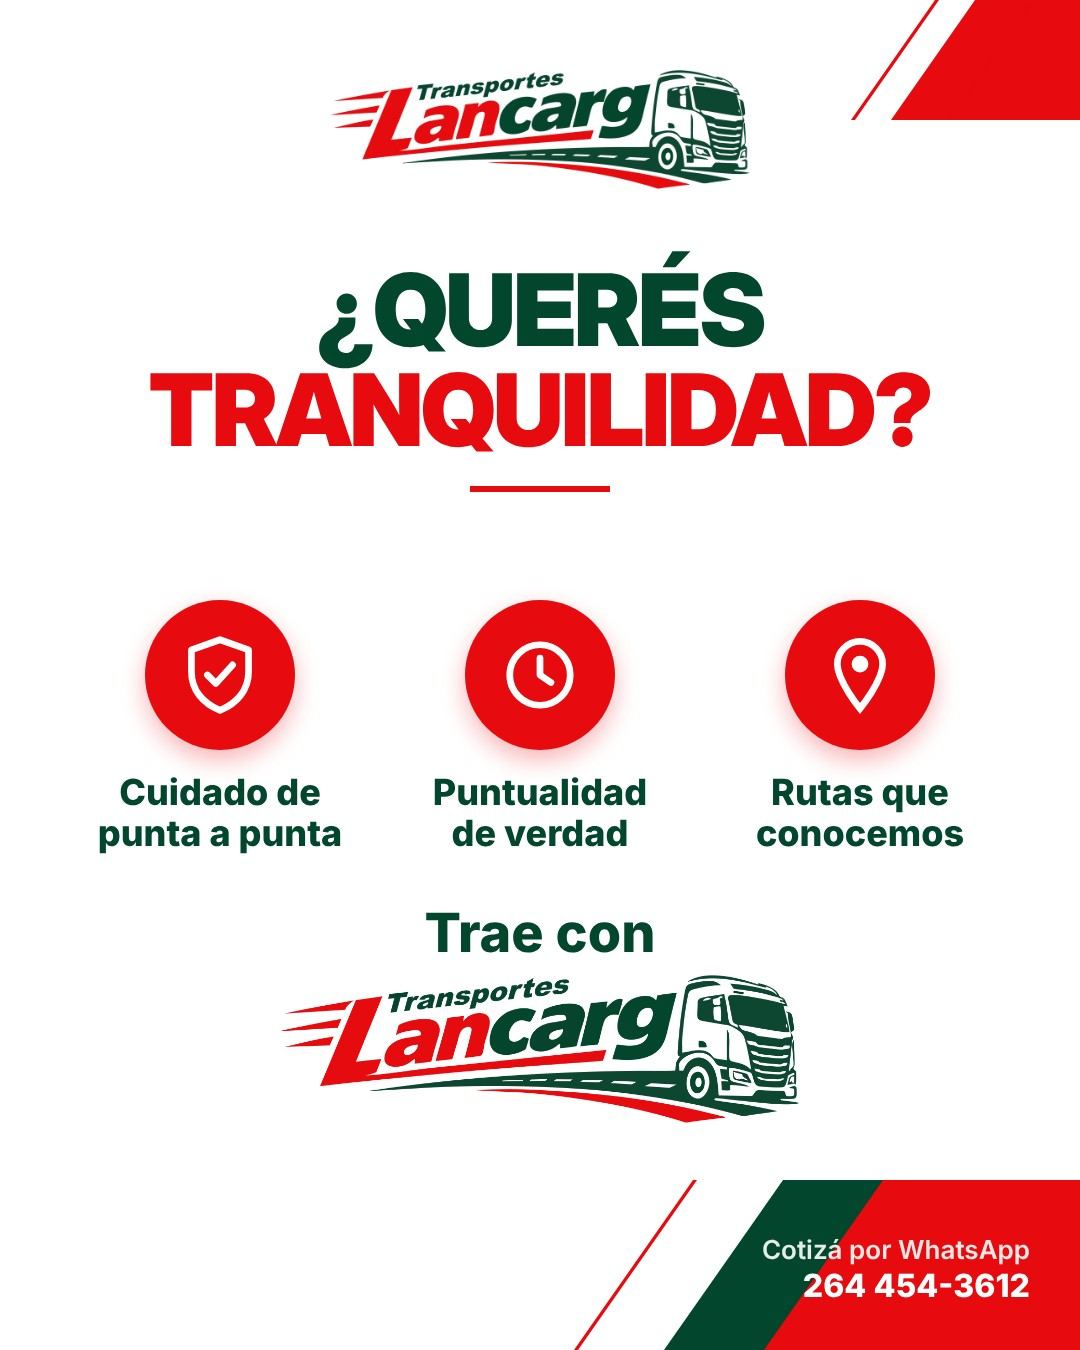
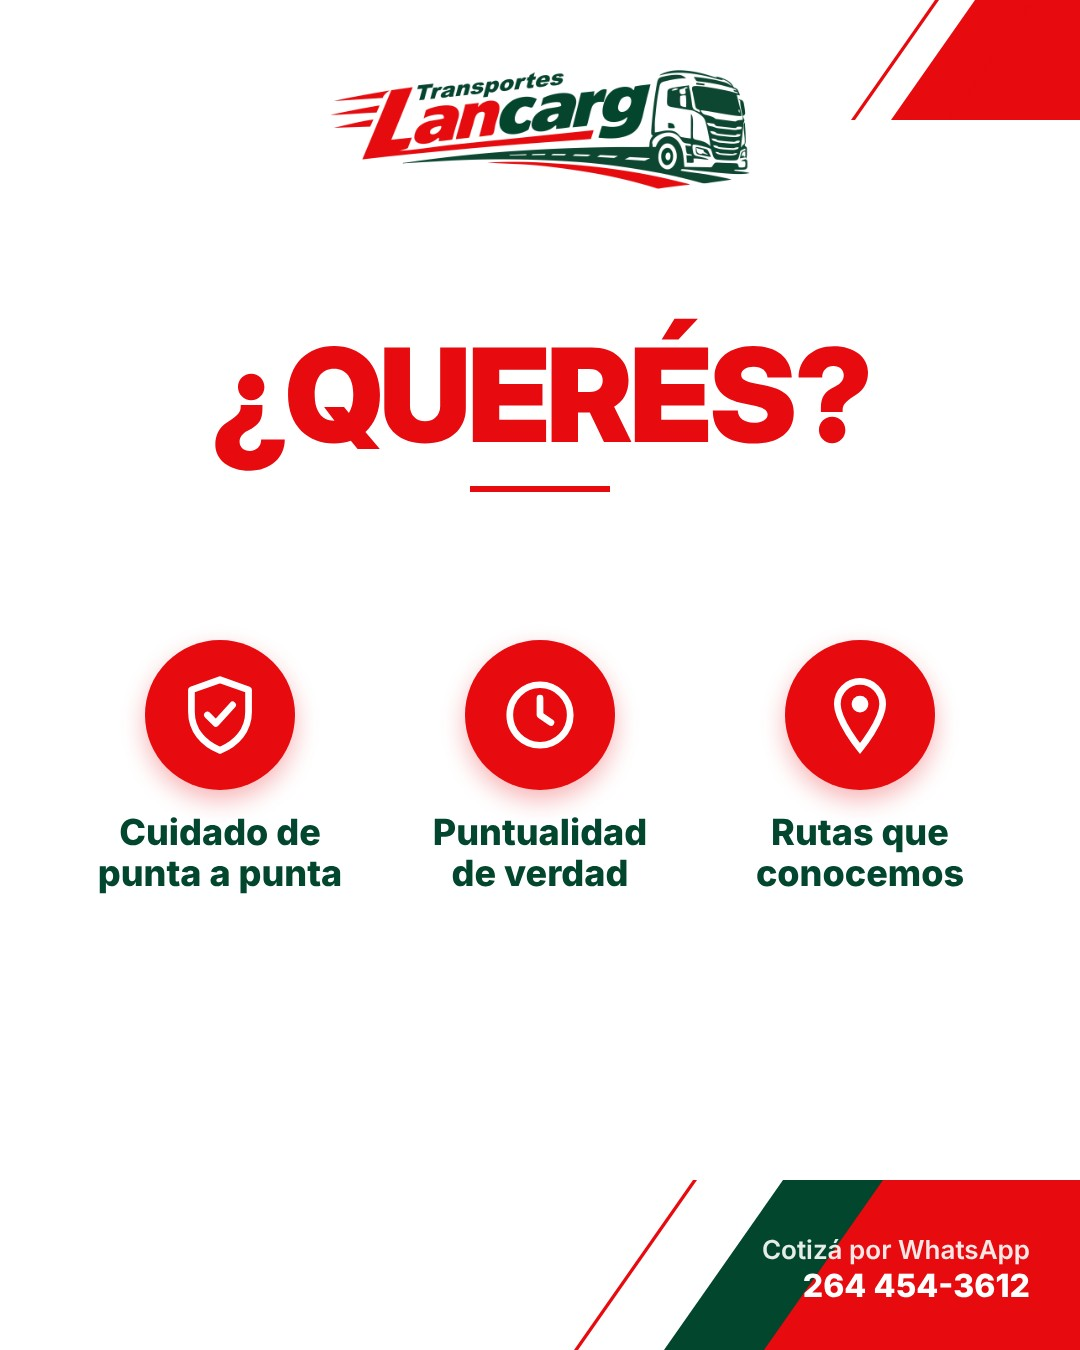
Carrusel 9/11: placa 5 con solo ¿Querés? e iconos (pendiente de confirmar)
Claude-Session: https://claude.ai/code/session_014Mzmm57TWdtJRgNHLty5PC

diff --git a/publicaciones/2026-11-09-carrusel-buenas-manos/diseno.html b/publicaciones/2026-11-09-carrusel-buenas-manos/diseno.html
@@ -69,9 +69,9 @@ h1 .r{color:#E70A0F}
 <div class="slide feed">
 <div class="d tr1" style="height:140px"></div><div class="d tr2" style="height:140px"></div>
 <img class="logo" src="../../marca/versiones/1-principal-color.png" style="top:70px;width:420px">
-<h1 style="top:260px;font-size:100px">¿Querés<br><span class="r">tranquilidad?</span></h1>
+<h1 style="top:330px;font-size:130px"><span class="r">¿Querés?</span></h1>
 <div class="bar" style="top:486px"></div>
-<div style="position:absolute;left:0;right:0;top:600px;display:flex;justify-content:center;gap:40px;z-index:4"><div style="display:flex;flex-direction:column;align-items:center;gap:22px;width:280px"><div style="width:150px;height:150px;border-radius:50%;background:#E70A0F;display:grid;place-items:center;box-shadow:0 10px 24px rgba(231,10,15,.3)"><svg viewBox="0 0 100 100" style="width:84px;height:84px"><path d="M50 8 84 20v26c0 22-14 38-34 46C30 84 16 68 16 46V20Z" fill="none" stroke="#fff" stroke-width="8" stroke-linejoin="round"/><path d="M35 50l10 10 20-22" fill="none" stroke="#fff" stroke-width="8" stroke-linecap="round" stroke-linejoin="round"/></svg></div><div style="font-size:36px;font-weight:800;color:#02462D;text-align:center;line-height:1.15">Cuidado de<br>punta a punta</div></div><div style="display:flex;flex-direction:column;align-items:center;gap:22px;width:280px"><div style="width:150px;height:150px;border-radius:50%;background:#E70A0F;display:grid;place-items:center;box-shadow:0 10px 24px rgba(231,10,15,.3)"><svg viewBox="0 0 100 100" style="width:84px;height:84px"><circle cx="50" cy="50" r="36" fill="none" stroke="#fff" stroke-width="8"/><path d="M50 30V50L63 59" fill="none" stroke="#fff" stroke-width="8" stroke-linecap="round" stroke-linejoin="round"/></svg></div><div style="font-size:36px;font-weight:800;color:#02462D;text-align:center;line-height:1.15">Puntualidad<br>de verdad</div></div><div style="display:flex;flex-direction:column;align-items:center;gap:22px;width:280px"><div style="width:150px;height:150px;border-radius:50%;background:#E70A0F;display:grid;place-items:center;box-shadow:0 10px 24px rgba(231,10,15,.3)"><svg viewBox="0 0 100 100" style="width:84px;height:84px"><path d="M50 10C35 10 23 22 23 37 23 57 50 90 50 90S77 57 77 37C77 22 65 10 50 10Z" fill="none" stroke="#fff" stroke-width="8"/><circle cx="50" cy="37" r="10" fill="#fff"/></svg></div><div style="font-size:36px;font-weight:800;color:#02462D;text-align:center;line-height:1.15">Rutas que<br>conocemos</div></div></div><div style="position:absolute;left:0;right:0;top:900px;text-align:center;z-index:4"><div style="font-size:54px;font-weight:800;color:#02462D">Trae con</div><img src="../../marca/versiones/1-principal-color.png" style="width:520px;margin-top:10px"></div>
+<div style="position:absolute;left:0;right:0;top:640px;display:flex;justify-content:center;gap:40px;z-index:4"><div style="display:flex;flex-direction:column;align-items:center;gap:22px;width:280px"><div style="width:150px;height:150px;border-radius:50%;background:#E70A0F;display:grid;place-items:center;box-shadow:0 10px 24px rgba(231,10,15,.3)"><svg viewBox="0 0 100 100" style="width:84px;height:84px"><path d="M50 8 84 20v26c0 22-14 38-34 46C30 84 16 68 16 46V20Z" fill="none" stroke="#fff" stroke-width="8" stroke-linejoin="round"/><path d="M35 50l10 10 20-22" fill="none" stroke="#fff" stroke-width="8" stroke-linecap="round" stroke-linejoin="round"/></svg></div><div style="font-size:36px;font-weight:800;color:#02462D;text-align:center;line-height:1.15">Cuidado de<br>punta a punta</div></div><div style="display:flex;flex-direction:column;align-items:center;gap:22px;width:280px"><div style="width:150px;height:150px;border-radius:50%;background:#E70A0F;display:grid;place-items:center;box-shadow:0 10px 24px rgba(231,10,15,.3)"><svg viewBox="0 0 100 100" style="width:84px;height:84px"><circle cx="50" cy="50" r="36" fill="none" stroke="#fff" stroke-width="8"/><path d="M50 30V50L63 59" fill="none" stroke="#fff" stroke-width="8" stroke-linecap="round" stroke-linejoin="round"/></svg></div><div style="font-size:36px;font-weight:800;color:#02462D;text-align:center;line-height:1.15">Puntualidad<br>de verdad</div></div><div style="display:flex;flex-direction:column;align-items:center;gap:22px;width:280px"><div style="width:150px;height:150px;border-radius:50%;background:#E70A0F;display:grid;place-items:center;box-shadow:0 10px 24px rgba(231,10,15,.3)"><svg viewBox="0 0 100 100" style="width:84px;height:84px"><path d="M50 10C35 10 23 22 23 37 23 57 50 90 50 90S77 57 77 37C77 22 65 10 50 10Z" fill="none" stroke="#fff" stroke-width="8"/><circle cx="50" cy="37" r="10" fill="#fff"/></svg></div><div style="font-size:36px;font-weight:800;color:#02462D;text-align:center;line-height:1.15">Rutas que<br>conocemos</div></div></div>
 <div class="d br1"></div><div class="d br2"></div><div class="d br3"></div>
 <div class="cta"><small>Cotizá por WhatsApp</small>264 454-3612</div>
 </div>

diff --git a/plantillas/generar_carrusel_buenas_manos.py b/plantillas/generar_carrusel_buenas_manos.py
@@ -34,10 +34,9 @@ slides = [
          "scania-blanca-cruzando-el-desierto-al-atardecer.jpg", "62% 50%", ph=640, top=560),
     paso(3, "pin", 'Rutas que conocemos<br><span class="r">de memoria</span>', 'Buenos Aires, Córdoba y Rosario<br><b>↔ San Juan y Mendoza</b>',
          "planchada-descarga-deposito-sj.jpg", "50% 60%"),
-    feed(title='¿Querés<br><span class="r">tranquilidad?</span>', title_size=100, top={"logo": 70, "kick": 0, "h1": 260},
-         extra=f'<div style="position:absolute;left:0;right:0;top:600px;display:flex;justify-content:center;gap:40px;z-index:4">{beneficios}</div>'
-               '<div style="position:absolute;left:0;right:0;top:900px;text-align:center;z-index:4"><div style="font-size:54px;font-weight:800;color:#02462D">Trae con</div>'
-               '<img src="../../marca/versiones/1-principal-color.png" style="width:520px;margin-top:10px"></div>'),
+    feed(title='<span class="r">¿Querés?</span>', title_size=130, top={"logo": 70, "kick": 0, "h1": 330},
+         extra=f'<div style="position:absolute;left:0;right:0;top:640px;display:flex;justify-content:center;gap:40px;z-index:4">{beneficios}</div>'
+),
 ]
 d = os.path.join(os.path.dirname(os.path.abspath(__file__)), "..", "publicaciones", "2026-11-09-carrusel-buenas-manos")
 open(os.path.join(d, "diseno.html"), "w").write(page(slides))
